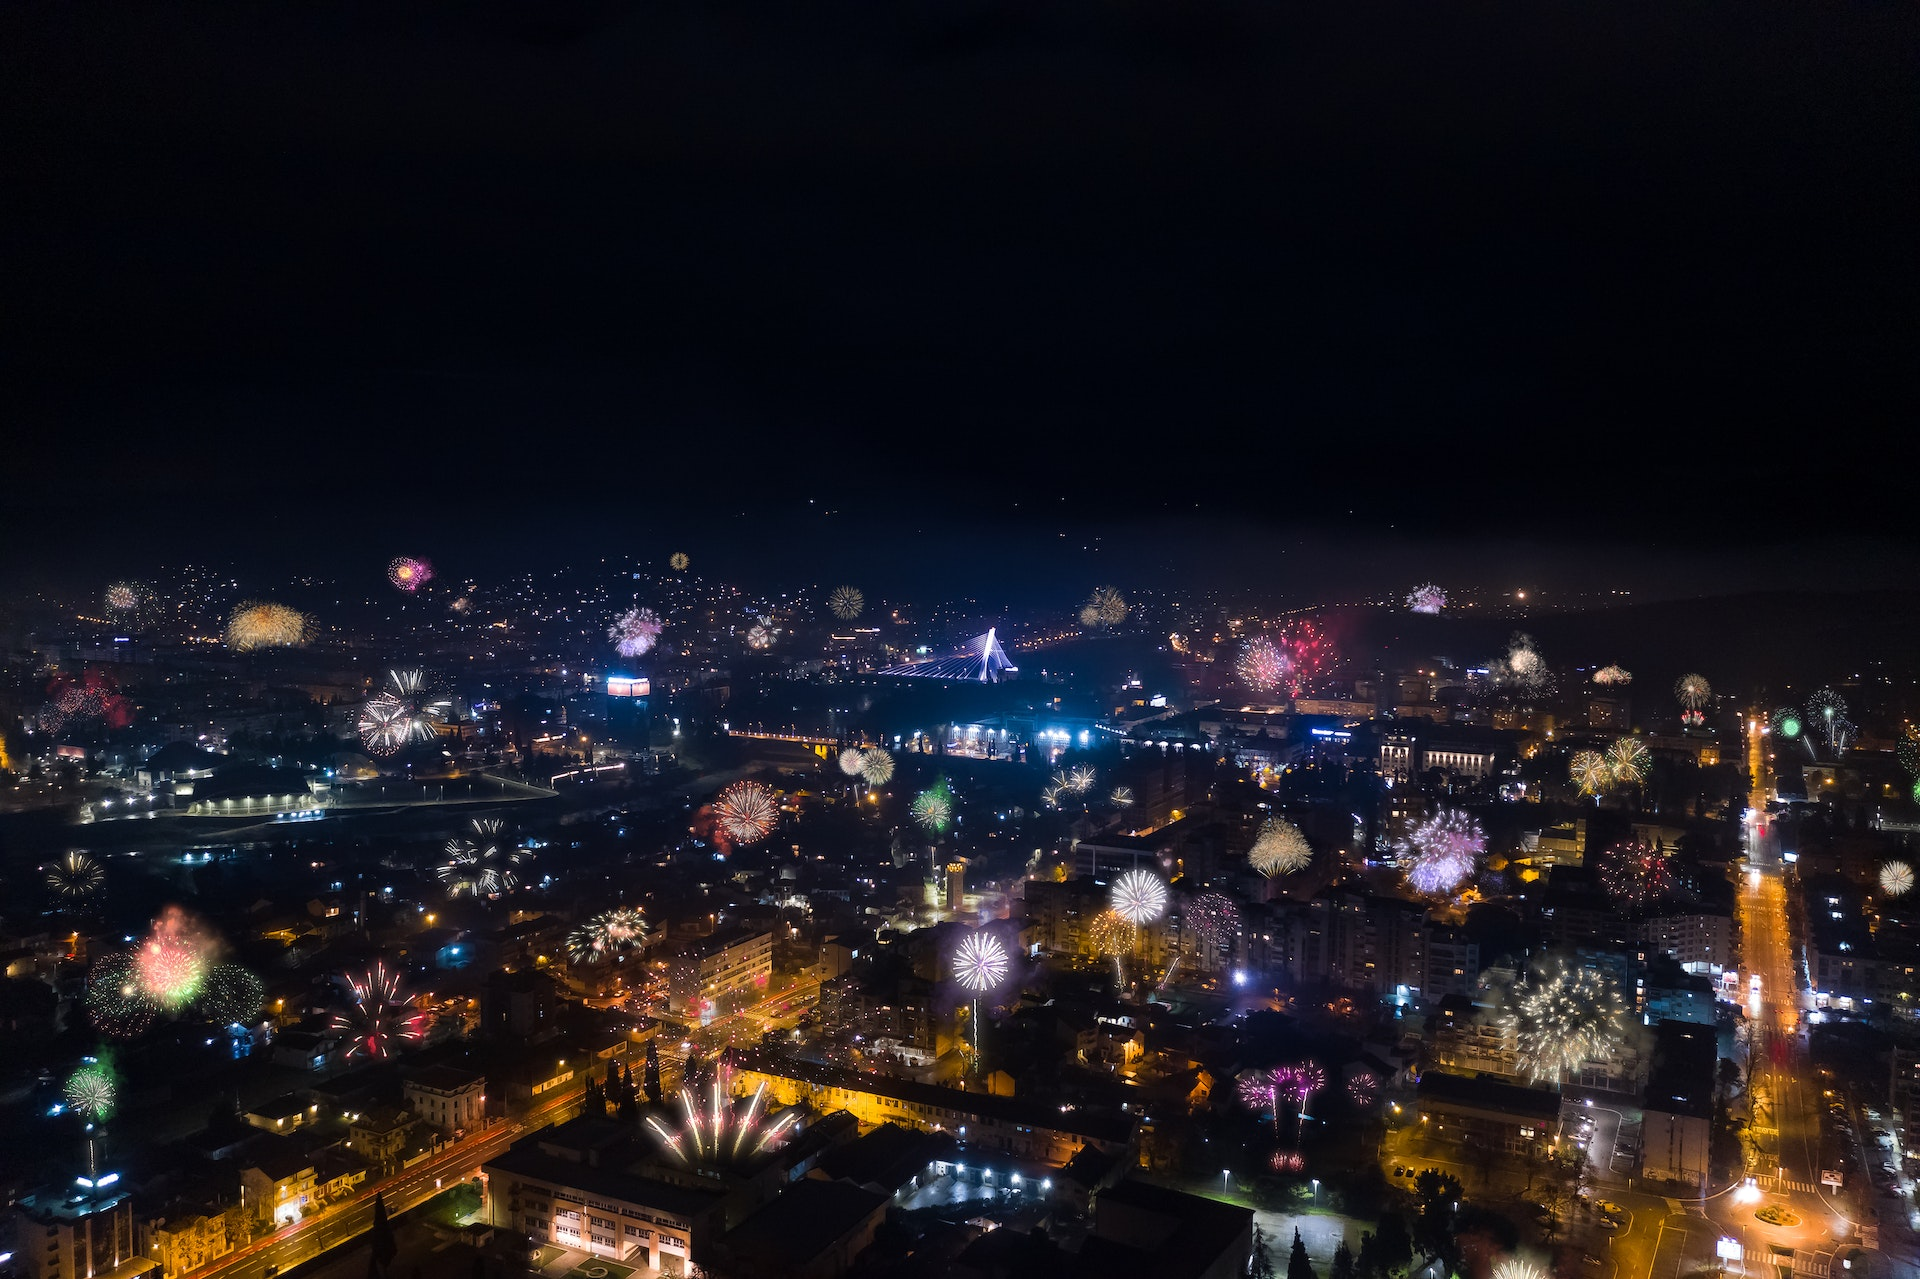
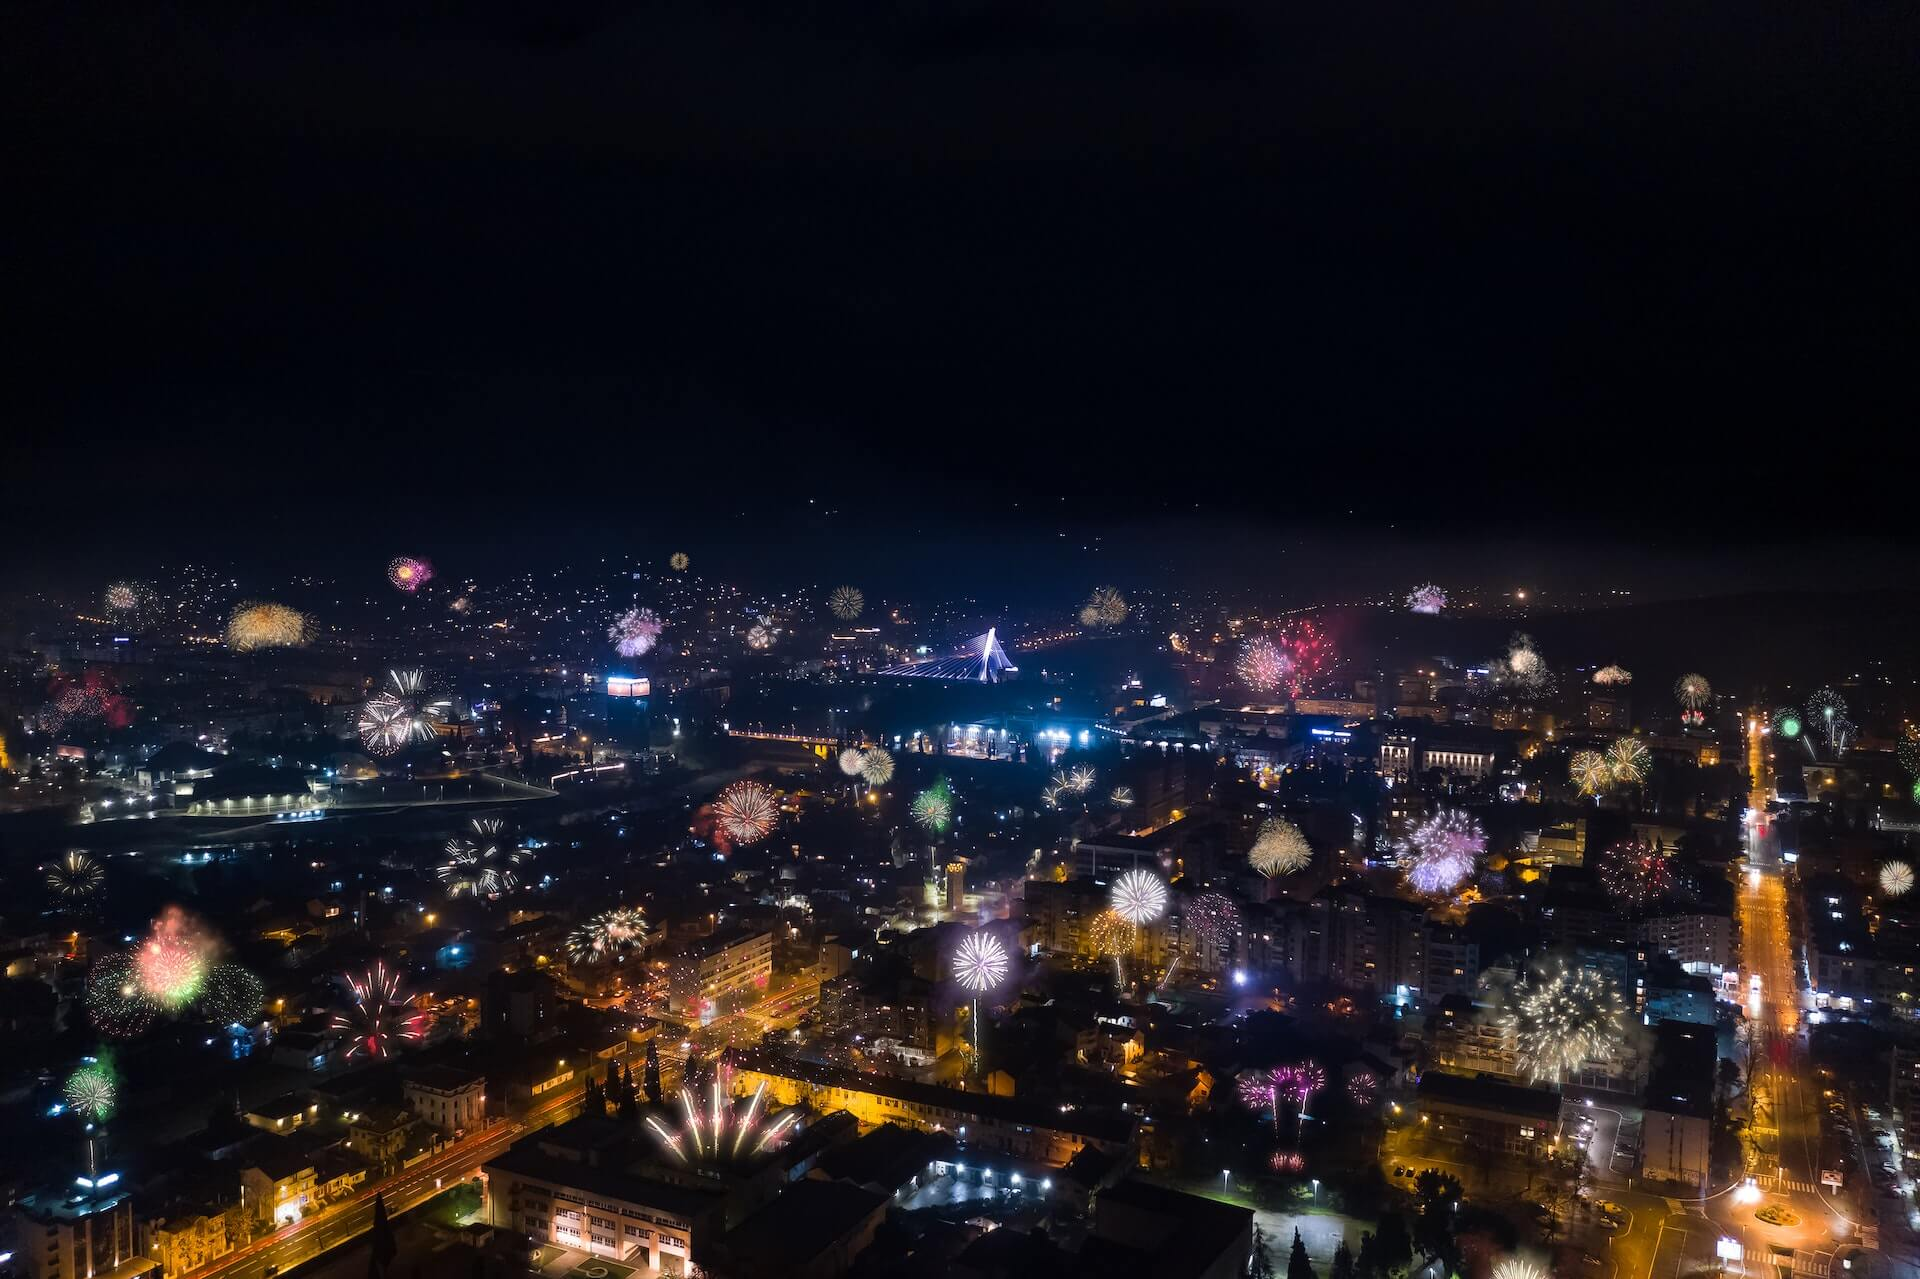
bg compressed

Changed region(s): [[0.4375, 0.8538, 0.4688, 0.8843], [0.1562, 0.9148, 0.1875, 0.9453], [0.0938, 0.9758, 0.125, 1.0]]

diff --git a/style.css b/style.css
@@ -15,8 +15,6 @@ body {
     background-size: cover;
     background-image: url(images/fireworks-bg.jpg);
     background-position: center;
-    /* background-color: #28282B; */
-    /* background: linear-gradient(to right, #0cebeb, #20e3b2, #29ffc6); */
     position: relative;
     z-index: 1;
 }
